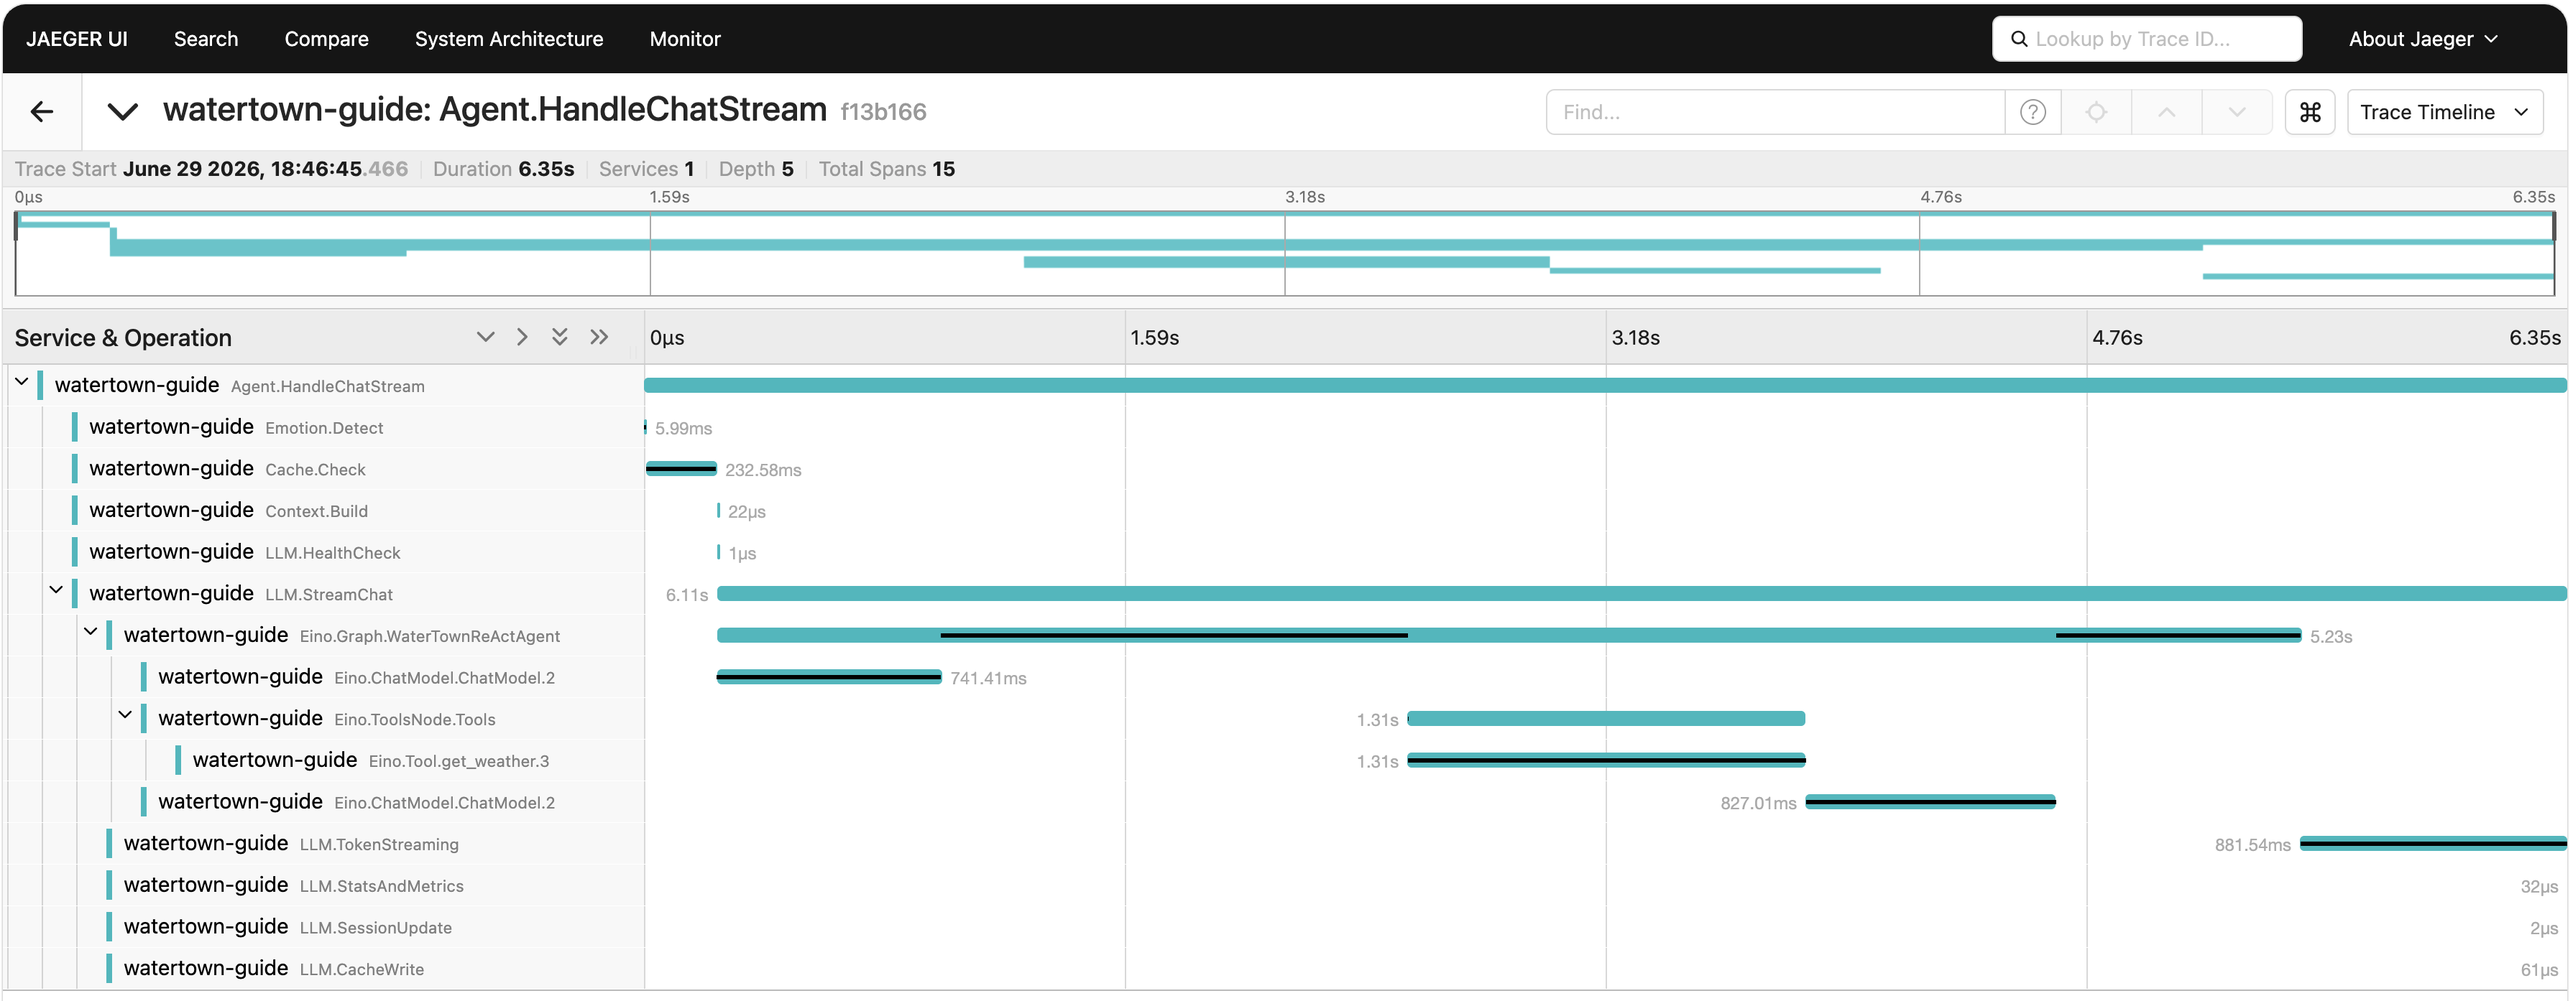
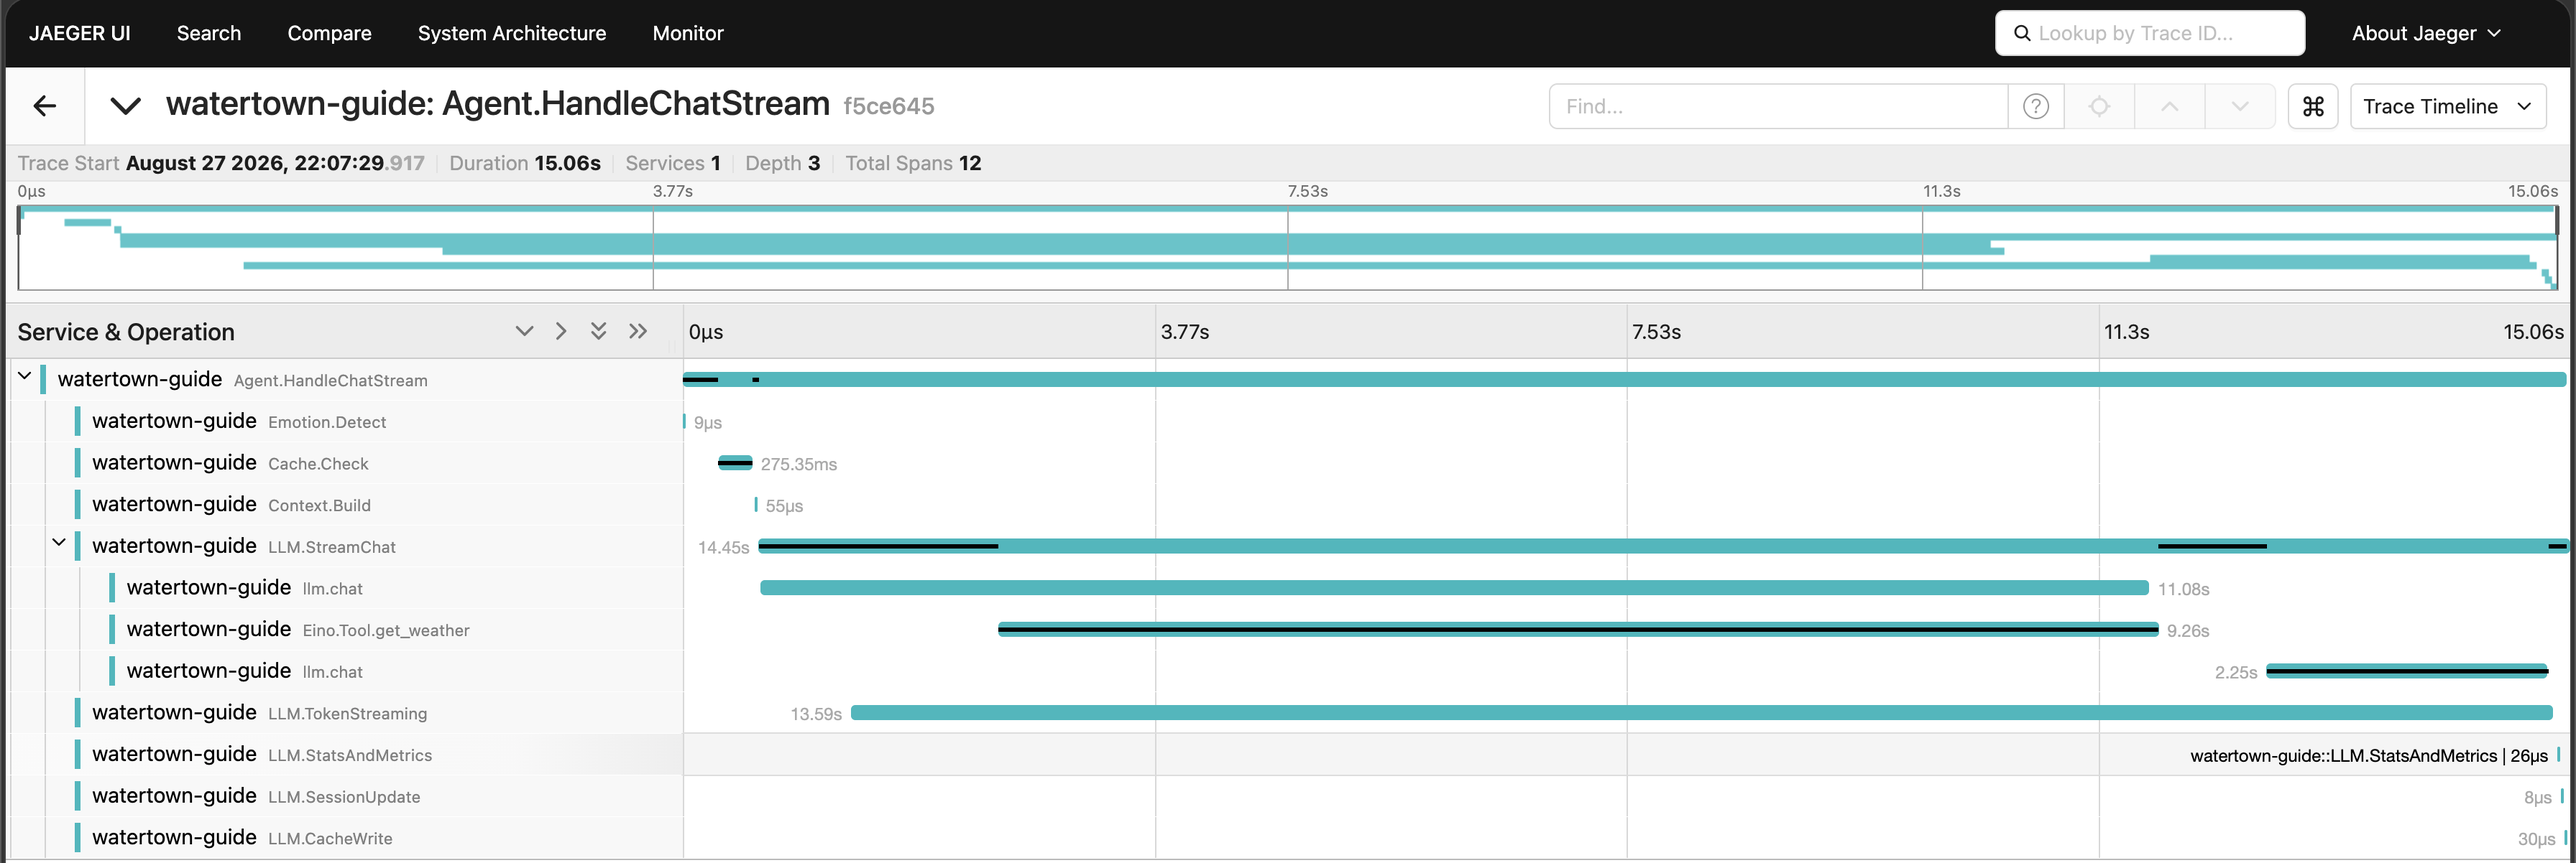
docs: 更新 Span 层级文档以对齐修复后的实际链路结构
- LLM.StreamChat 内部改为扁平结构：llm.chat(决策) → Eino.Tool.* →
  llm.chat(响应)，两次模型调用为兄弟 Span 而非 Eino.Graph 深层嵌套
- 补充说明：llm.chat 的 Output 格式（[tool_call] 工具名(参数)）、
  llm.ttft_ms 首字延迟属性、TokenStreaming 的真实测量语义
- 区分流式（Cache.Check）与非流式（Cache.ExactCheck/SimilarityCheck）
  的缓存查询 Span；同步更新耗时表格与性能分析示例图
- 更新 Jaeger/Langfuse 效果截图

Changed region(s): [[0.0, 0.0, 1.0, 1.0], [0.6201, 0.1231, 0.6511, 0.1539]]

diff --git a/README.md b/README.md
@@ -175,23 +175,6 @@ flowchart TD
     M --> R[返回ChatResponse]
 ```
 
-### 3. 服务启动流程
-
-```mermaid
-flowchart LR
-    A[main.go] --> B[加载配置]
-    B --> C[初始化日志]
-    C --> D[连接 MySQL]
-    D --> E[加载知识库]
-    E --> F[初始化 OpenTelemetry]
-    F --> G[创建 Gin Server]
-    G --> H[初始化 Agent Runtime]
-    H --> I[注册 WebSocket Handler]
-    I --> J[启动 HTTP 服务]
-    J --> K[等待退出信号]
-    K --> L[优雅关闭]
-```
-
 ***
 
 ## 项目结构
@@ -330,53 +313,59 @@ taohuawu/
 
 ## 2. OpenTelemetry 分布式追踪
 
-### 2.1 已接入的 Span
+### 2.1 细粒度链路追踪（HandleChatStream）
 
-| 位置              | Span 名称                    | 说明                                       |
-| --------------- | -------------------------- | ---------------------------------------- |
-| `middleware.go` | `GET /path` / `POST /path` | 每个 HTTP 请求自动创建 Server Span               |
-| `runtime.go`    | `HandleWelcome`            | 欢迎消息处理                                   |
-| `runtime.go`    | `HandleChat`               | 普通对话处理                                   |
-| `runtime.go`    | `HandleChatStream`         | 流式对话处理（包含 5 个顶层子 Span + Eino 框架嵌套子 Span） |
-
-### 2.2 细粒度链路追踪（HandleChatStream）
-
-为实现**全链路耗时透明化**，我们为 `HandleChatStream` 添加了 **5 个顶层细粒度子 Span**，其中 `LLM.StreamChat` 内部还包含 **4-5 个嵌套子 Span**，可以清晰看到每个步骤的耗时分布，便于定位性能瓶颈：
+为实现**全链路耗时透明化**，为流式对话 `HandleChatStream` 添加了 **5 个顶层细粒度子 Span**，其中 `LLM.StreamChat` 内部还包含 **4-5 个嵌套子 Span**，可以清晰看到每个步骤的耗时分布，便于定位性能瓶颈：
 
 #### 完整 Span 层级结构
 
 ```
 Agent.HandleChatStream (主 Span)
 ├── Emotion.Detect          情绪检测
-├── Cache.Check             缓存查询（含精确缓存查询 + Embedding 调用）
+├── Cache.Check             缓存查询（精确匹配 + 语义匹配）
 ├── Context.Build           构建上下文消息（会话历史 + 摘要压缩）
 ├── LLM.HealthCheck         LLM 健康检查
-└── LLM.StreamChat          LLM 流式调用（主要耗时来源，包含嵌套子 Span）
-    ├── Eino.Graph.WaterTownReActAgent   Eino ReAct Agent 执行图
-    │   ├── Eino.ChatModel.ChatModel.1   模型调用（决策阶段，判断是否调用工具）
-    │   ├── Eino.ToolNode.Tools          工具调用节点
-    │   │   └── Eino.Tool.get_weather    具体工具执行
-    │   └── Eino.ChatModel.ChatModel.2   模型调用（响应阶段，基于工具结果生成回复）
-    ├── LLM.TokenStreaming              Token 流传输（打字机效果）
-    ├── LLM.StatsAndMetrics             统计指标记录与成本计算
-    │   └── LLM.FallbackNonStream       降级非流式调用（可选）
-    ├── LLM.SessionUpdate               会话消息更新
-    └── LLM.CacheWrite                  缓存写入（精确匹配 + 语义索引）
+└── LLM.StreamChat          LLM 流式调用（主要耗时来源；携带 llm.ttft_ms 首字延迟属性）
+    ├── llm.chat              第一次模型调用（决策阶段，Output 为 [tool_call] 工具名(参数)）
+    ├── Eino.Tool.get_weather 具体工具执行（按需出现，名称随实际工具）
+    ├── llm.chat              第二次模型调用（响应阶段，基于工具结果生成回复）
+    ├── LLM.TokenStreaming    流式接收窗口（首个 chunk → 流结束，含工具静默期）
+    ├── LLM.StatsAndMetrics   统计指标记录与成本计算
+    │   └── LLM.FallbackNonStream 降级非流式调用（可选）
+    ├── LLM.SessionUpdate     会话消息更新
+    └── LLM.CacheWrite        缓存写入（精确匹配 + 语义索引）
 ```
 
 #### 输出效果（Jaeger Trace）
-input、output、latency、token：
+Langfuse展示输入prompt、输出output、延迟latency、输入输出token、成本cost：
 ![LangFuse prompt](./backend/docs/images/langfuse_token.png)
 
-trace：
+Langfuse trace，模型、工具调用耗时：
 ![LangFuse trace](./backend/docs/images/langfuse_trace.png)
 
-jaeger：
+jaeger 瀑布图：
 ![Jaeger Trace 瀑布图](./backend/docs/images/trace.png)
 
 ***
 
 ## 快速开始
+
+### 服务启动流程
+
+```mermaid
+flowchart LR
+    A[main.go] --> B[加载配置]
+    B --> C[初始化日志]
+    C --> D[连接 MySQL]
+    D --> E[加载知识库]
+    E --> F[初始化 OpenTelemetry]
+    F --> G[创建 Gin Server]
+    G --> H[初始化 Agent Runtime]
+    H --> I[注册 WebSocket Handler]
+    I --> J[启动 HTTP 服务]
+    J --> K[等待退出信号]
+    K --> L[优雅关闭]
+```
 
 ### 1. 本地 Docker 启动（推荐）
 
